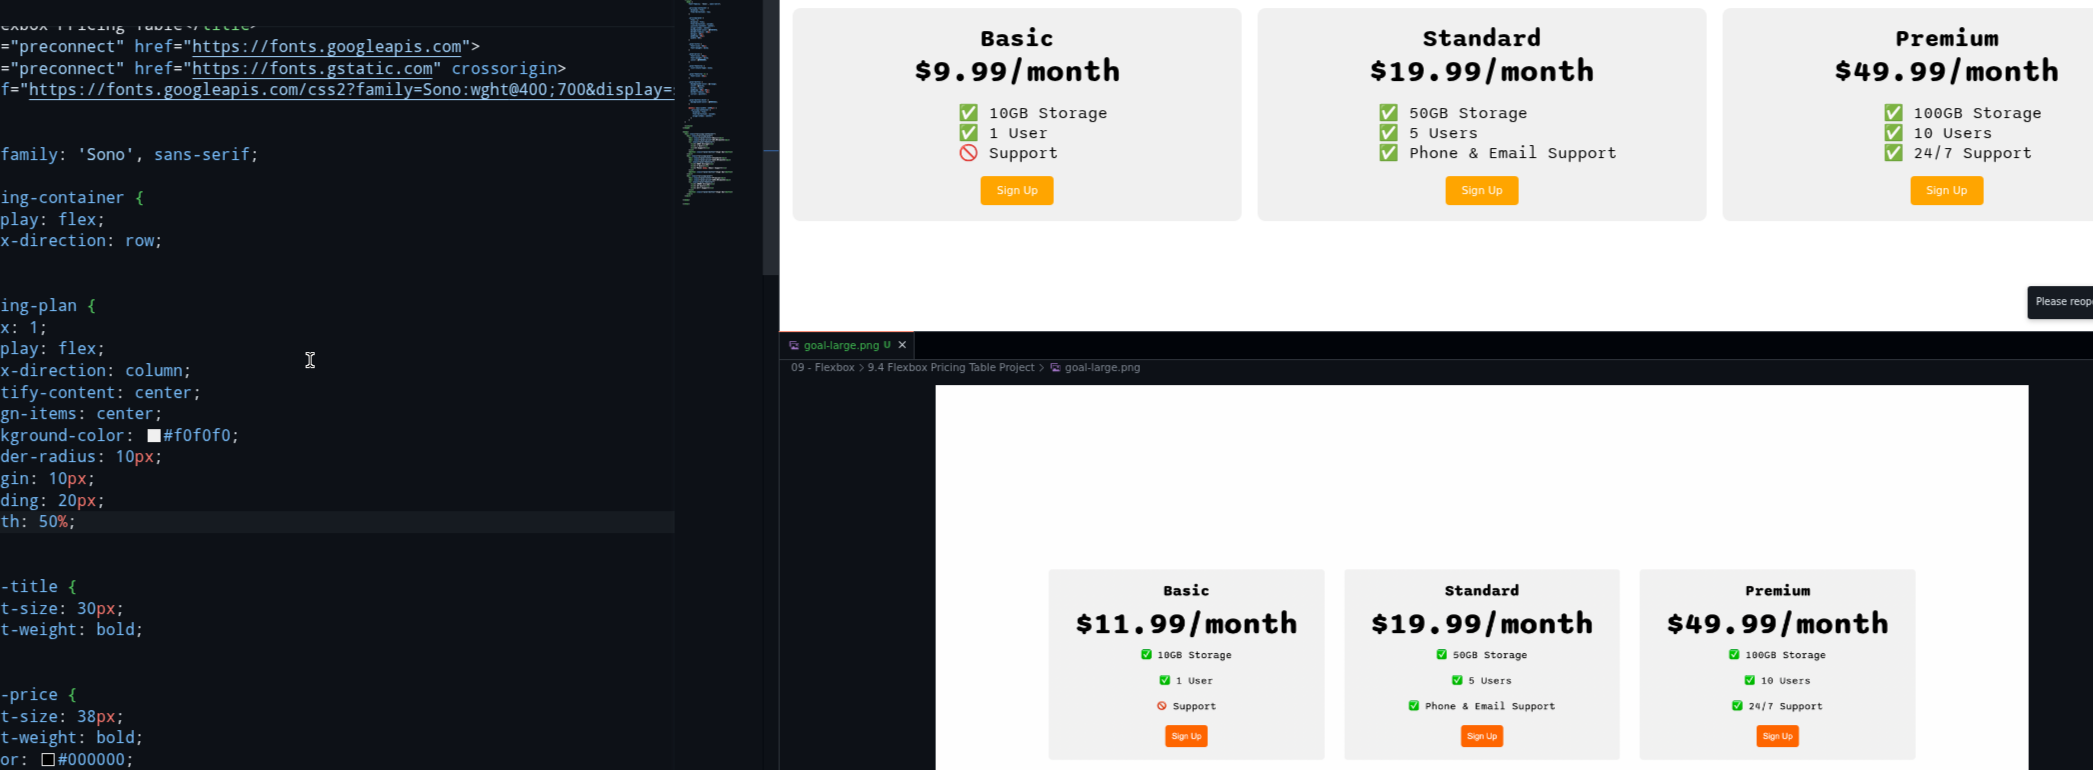
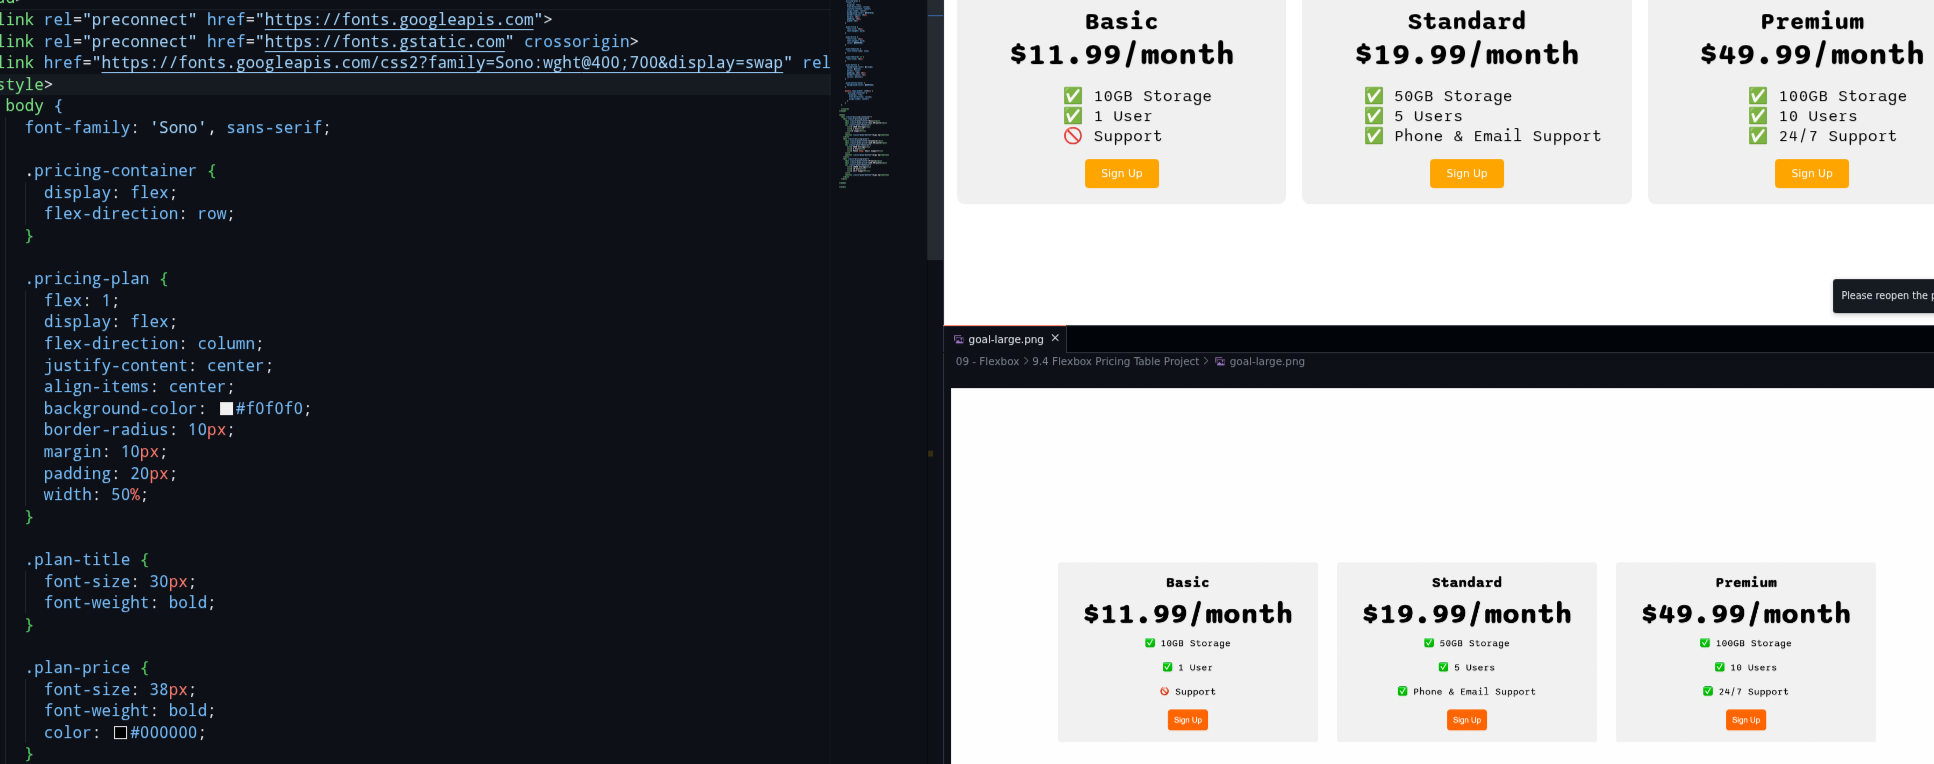
Fixed typo in screenshot

diff --git a/09 - Flexbox/9.4 Flexbox Pricing Table Project/index.html b/09 - Flexbox/9.4 Flexbox Pricing Table Project/index.html
@@ -76,7 +76,7 @@
   <div class="pricing-container">
     <div class="pricing-plan">
       <div class="plan-title">Basic</div>
-      <div class="plan-price">$9.99/month</div>
+      <div class="plan-price">$11.99/month</div>
       <ul class="plan-features">
         <li>✅ 10GB Storage</li>
         <li>✅ 1 User</li>
